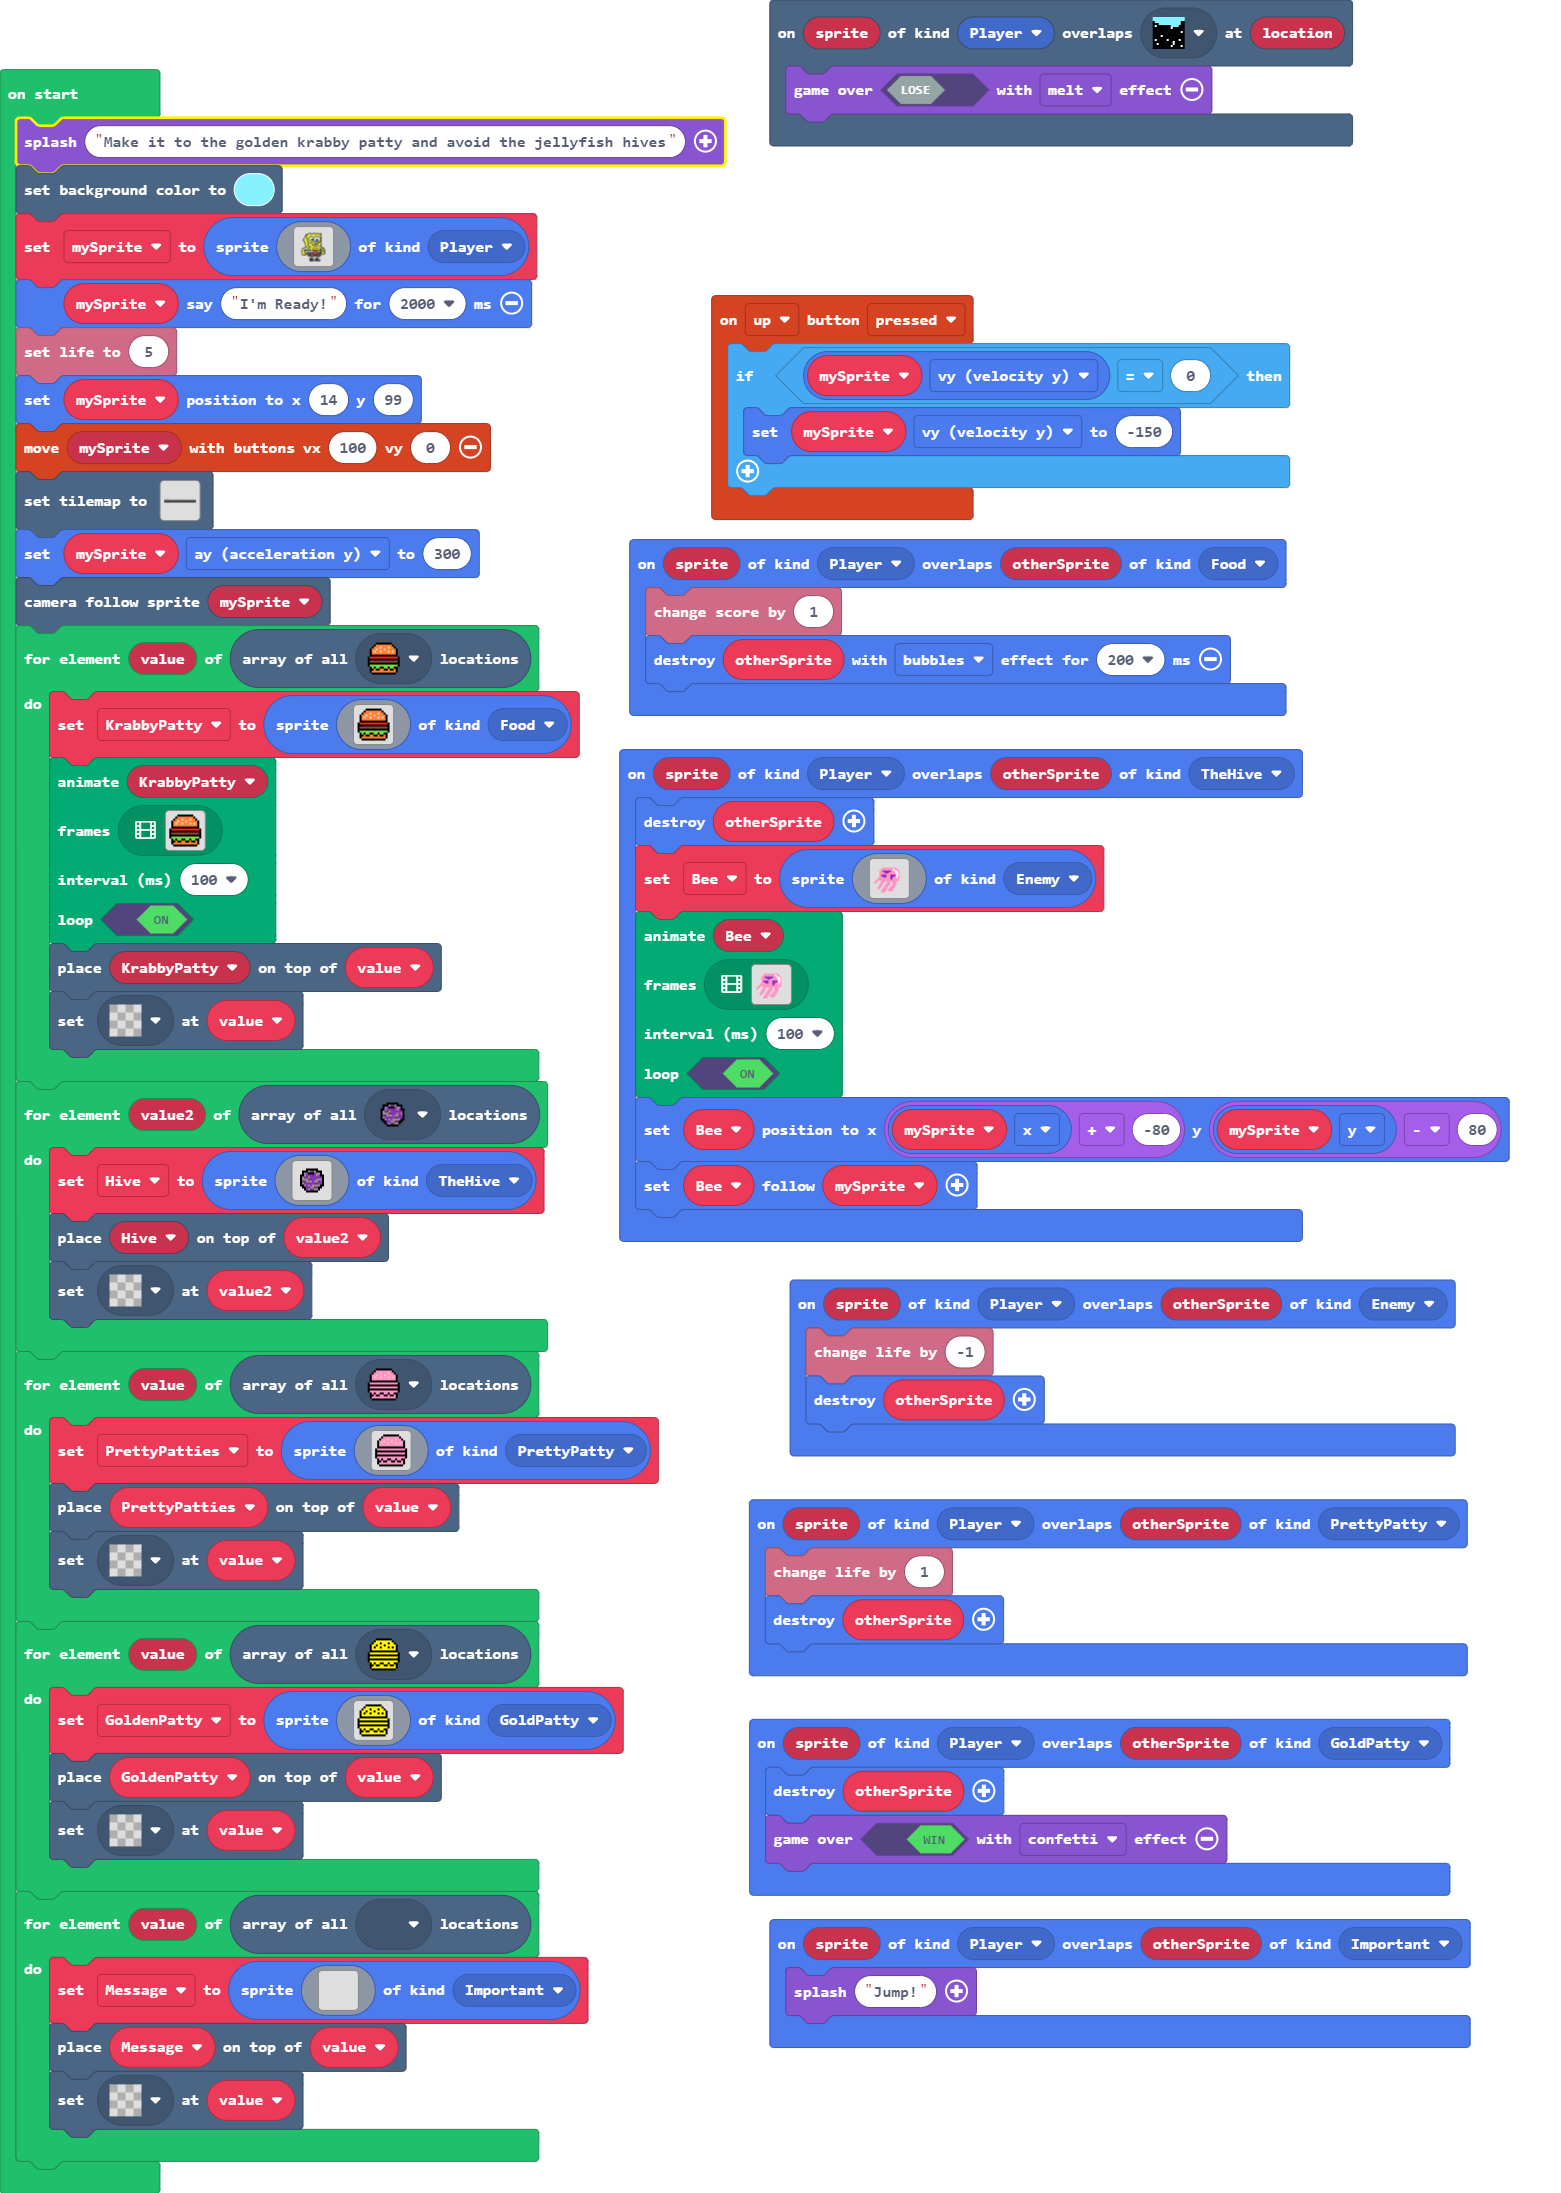
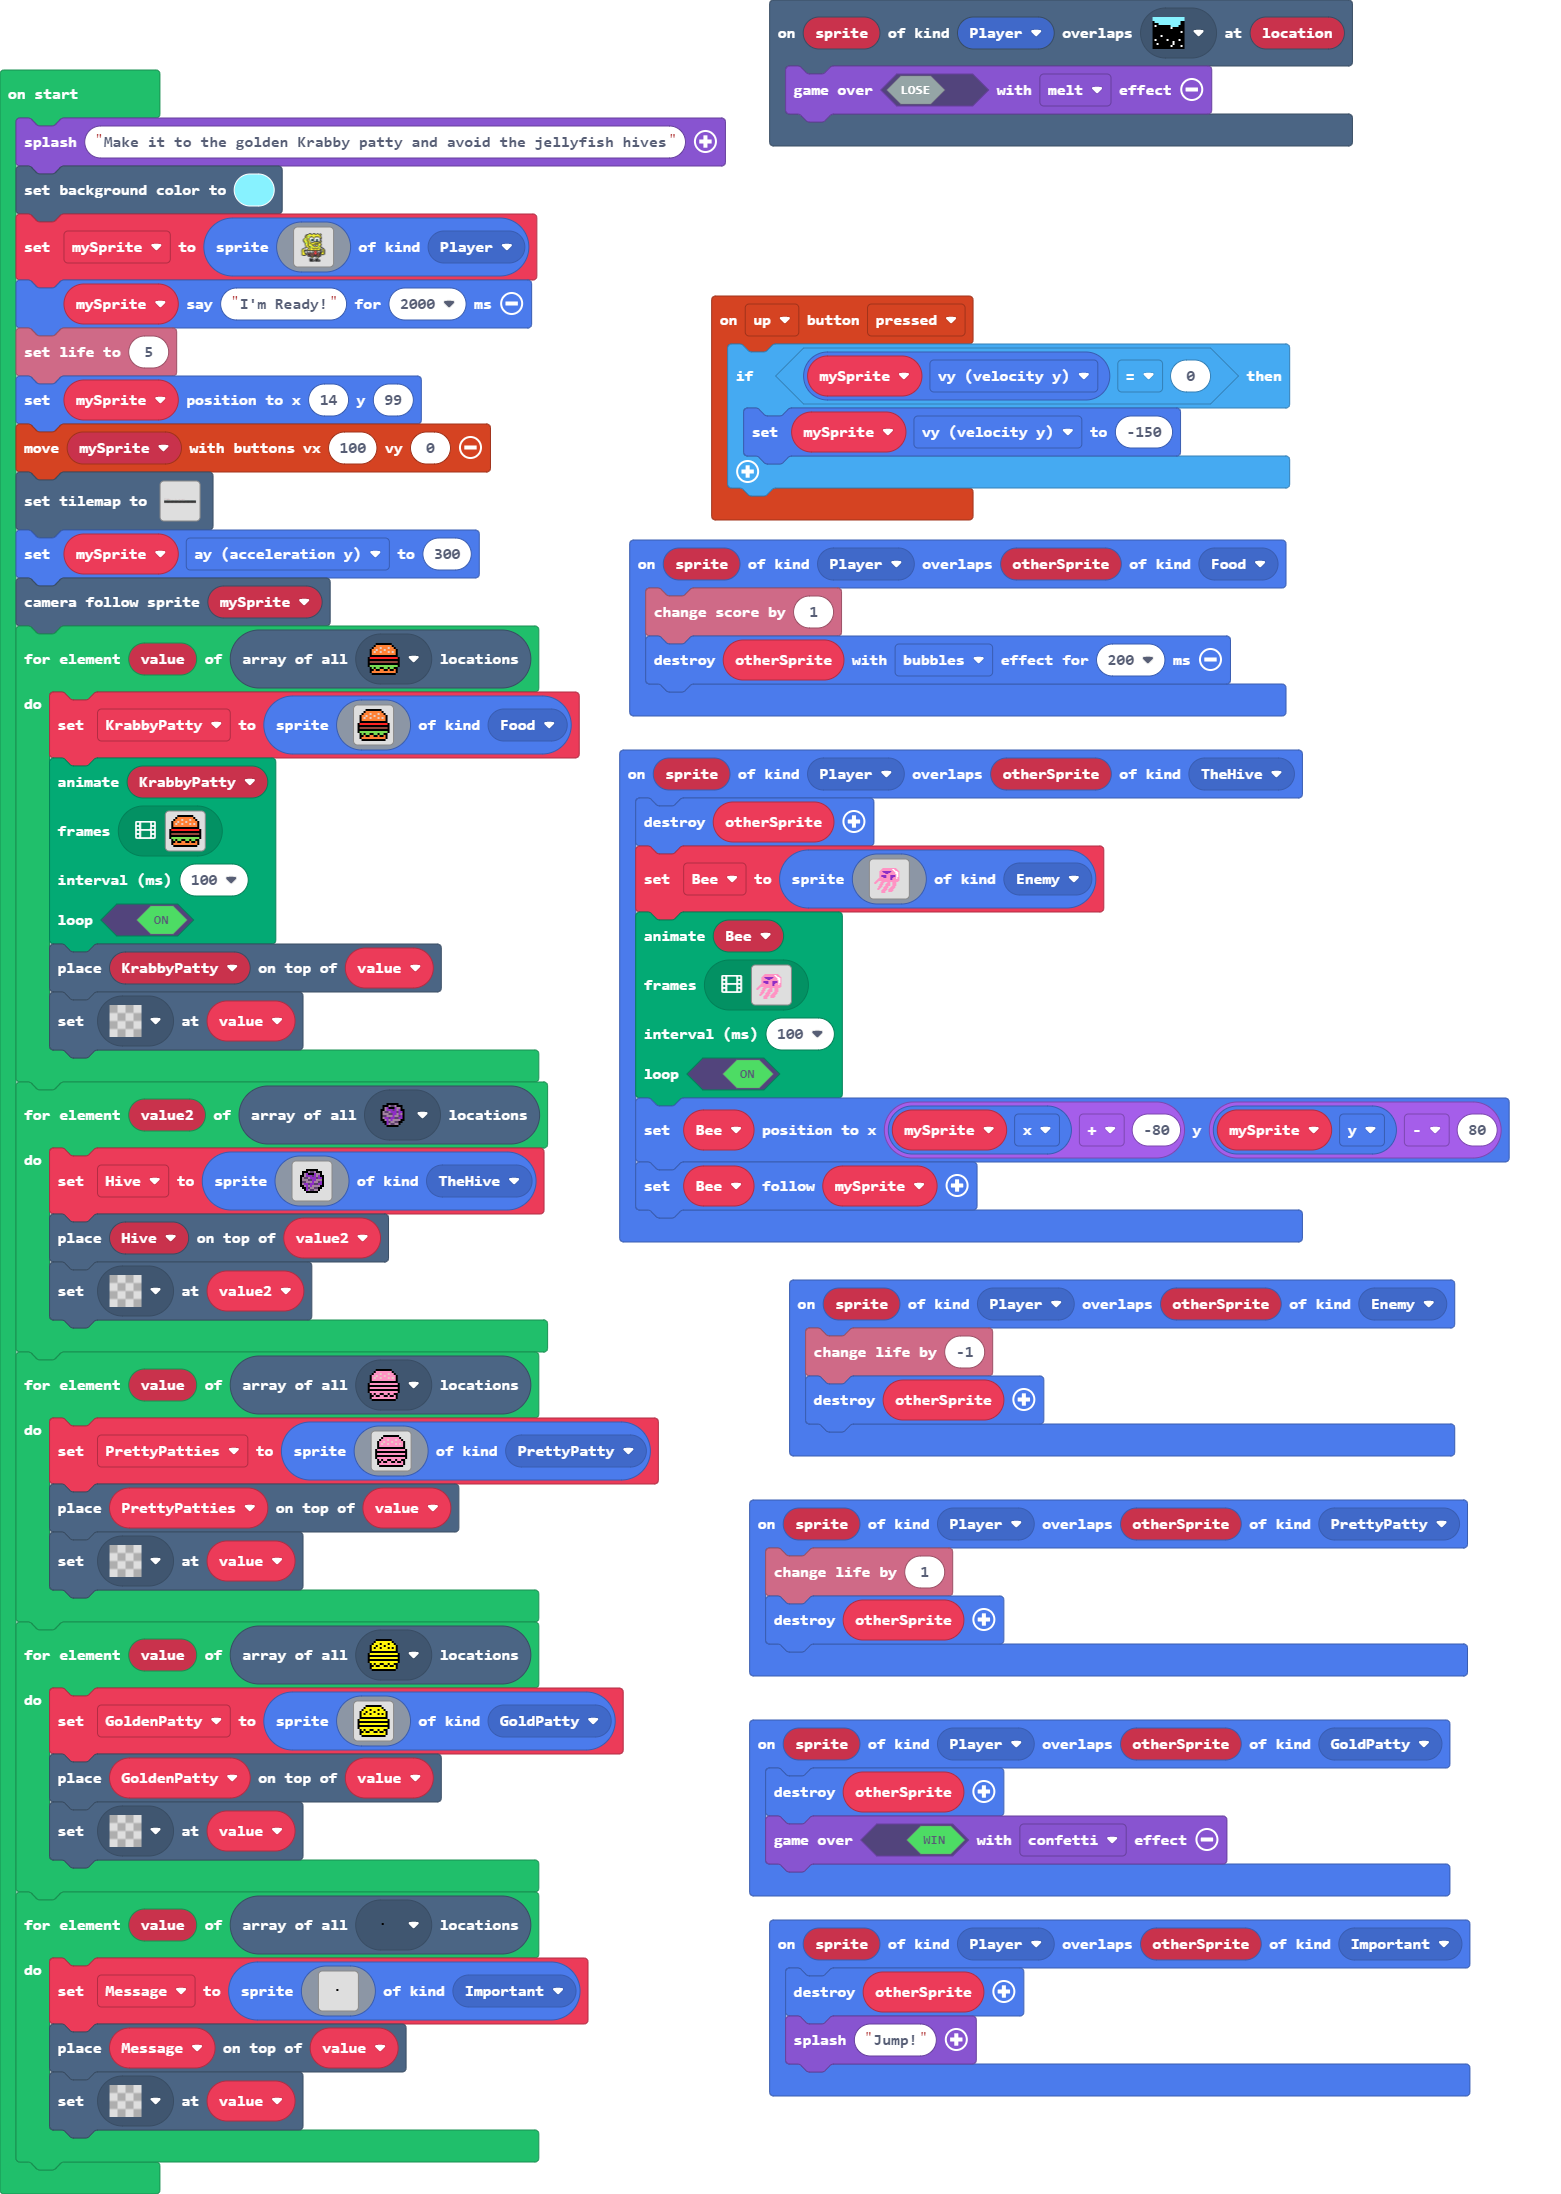
Update main.blocks, main.ts, tilemap.g.jres, tilemap.g.ts

diff --git a/tilemap.g.ts b/tilemap.g.ts
@@ -56,6 +56,25 @@ namespace myTiles {
 ........................................................................................................................................................................................................
 ........................................................................................................................................................................................................
 `, [myTiles.transparency16,myTiles.tile1,myTiles.tile3,myTiles.tile2,myTiles.tile4,myTiles.tile5,myTiles.tile6,myTiles.tile8,myTiles.tile7,myTiles.tile9], TileScale.Sixteen);
+            case "level2":
+            case "level2":return tiles.createTilemap(hex`1000100000000000000000000000000000000000000000000000000000000000000000000000000000000000000000000000000000000000000000000000000000000000000000000000000000000000000000000000000000000000000000000000000000000000000000000000000000000000000000000000000000000000000000000000000000000000000000000000000000000000000000000000000000000000000000000000000000000000000000000000000000000000000000000000000000000000000000000000000000000000000000000000000000000000000000000000000000000000000000000000000000000000000000000000000000000000`, img`
+. . . . . . . . . . . . . . . . 
+. . . . . . . . . . . . . . . . 
+. . . . . . . . . . . . . . . . 
+. . . . . . . . . . . . . . . . 
+. . . . . . . . . . . . . . . . 
+. . . . . . . . . . . . . . . . 
+. . . . . . . . . . . . . . . . 
+. . . . . . . . . . . . . . . . 
+. . . . . . . . . . . . . . . . 
+. . . . . . . . . . . . . . . . 
+. . . . . . . . . . . . . . . . 
+. . . . . . . . . . . . . . . . 
+. . . . . . . . . . . . . . . . 
+. . . . . . . . . . . . . . . . 
+. . . . . . . . . . . . . . . . 
+. . . . . . . . . . . . . . . . 
+`, [myTiles.transparency16], TileScale.Sixteen);
         }
         return null;
     })

diff --git a/main.ts b/main.ts
@@ -13,6 +13,7 @@ controller.up.onEvent(ControllerButtonEvent.Pressed, function () {
     }
 })
 sprites.onOverlap(SpriteKind.Player, SpriteKind.Important, function (sprite, otherSprite) {
+    otherSprite.destroy()
     game.splash("Jump!")
 })
 sprites.onOverlap(SpriteKind.Player, SpriteKind.GoldPatty, function (sprite, otherSprite) {
@@ -149,7 +150,7 @@ let PrettyPatties: Sprite = null
 let Hive: Sprite = null
 let KrabbyPatty: Sprite = null
 let mySprite: Sprite = null
-game.splash("Make it to the golden krabby patty and avoid the jellyfish hives")
+game.splash("Make it to the golden Krabby patty and avoid the jellyfish hives")
 scene.setBackgroundColor(9)
 mySprite = sprites.create(assets.image`Spongebob`, SpriteKind.Player)
 mySprite.say("I'm Ready!", 2000)
@@ -415,7 +416,7 @@ for (let value of tiles.getTilesByType(assets.tile`myTile7`)) {
         . . . . . . . . . . . . . . . . 
         . . . . . . . . . . . . . . . . 
         . . . . . . . . . . . . . . . . 
-        . . . . . . . . . . . . . . . . 
+        . . . . . . . f . . . . . . . . 
         . . . . . . . . . . . . . . . . 
         . . . . . . . . . . . . . . . . 
         . . . . . . . . . . . . . . . . 
